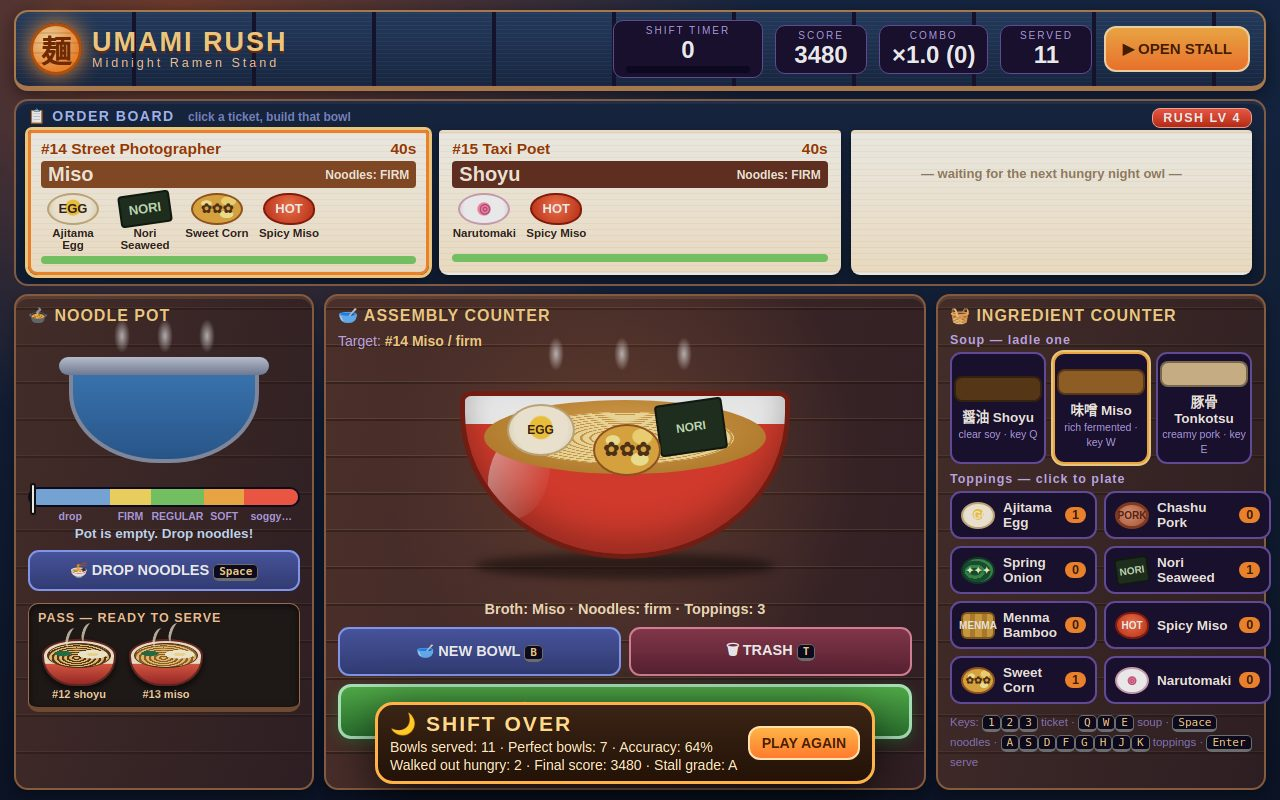
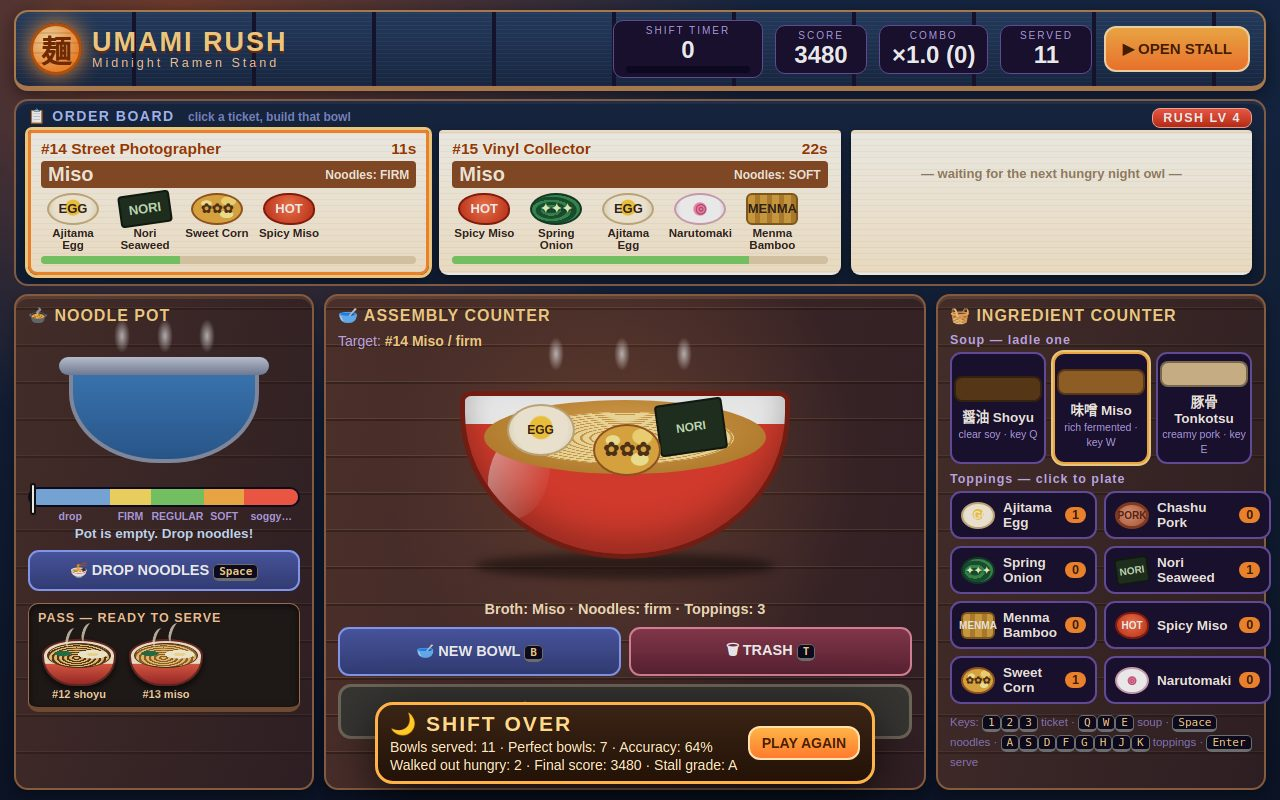
Astra round 3: close undercooked-noodle scoring exploit, post-shift serve guard, fixture realism (end tickets 11s/22s); restore urgent ticket on cover

Changed region(s): [[0.125, 0.1562, 0.6562, 0.3438], [0.25, 0.8438, 0.7188, 0.9375]]

diff --git a/game/src/shots.js b/game/src/shots.js
@@ -30,10 +30,9 @@ export function buildShotScene(name, seed) {
     ];
     addOrder(state);
     state.orders.forEach((order, index) => { order.number = 5 + index; });
-    Object.assign(target, { broth: 'shoyu', doneness: 'firm', toppings: ['chashu', 'ajitama', 'negi', 'nori'] });
-    target.patienceLeft = 24;
-    state.orders[1].patienceLeft = 8;
-    plateTicket(state, target, 3);
+    Object.assign(target, { broth: 'shoyu', doneness: 'firm', toppings: ['chashu', 'ajitama', 'nori'], patience: 36, patienceLeft: 31 });
+    Object.assign(state.orders[1], { toppings: ['negi', 'ajitama', 'menma'], patience: 36, patienceLeft: 8 });
+    plateTicket(state, target, 2);
     state.kitchen.potProgress = 0.375;
     state.feedback = 'One topping to go — then ring the bell!';
     state.feedbackKind = 'good';
@@ -46,9 +45,11 @@ export function buildShotScene(name, seed) {
     state.orders.forEach((order, index) => { order.number = 8 + index; });
     Object.assign(target, {
       broth: 'tonkotsu',
-      toppings: ['chashu', 'ajitama', 'corn', 'nori', 'negi'],
+      toppings: ['chashu', 'ajitama', 'nori'],
+      patience: 34,
       patienceLeft: 28,
     });
+    Object.assign(state.orders[1], { toppings: ['corn', 'negi', 'karamiso'], patience: 34, patienceLeft: 31 });
     plateTicket(state, target);
     state.feedback = 'Bowl complete — hit SERVE while it steams!';
     state.feedbackKind = 'good';
@@ -58,14 +59,15 @@ export function buildShotScene(name, seed) {
     // The payoff moment: the last bowl was PERFECT, the combo is hot, and the
     // next bowl is already boiling toward its SOFT window.
     state.timeLeft = 64; state.elapsed = 26;
-    state.score = 1875; state.combo = 5; state.servedCount = 5; state.perfectCount = 4;
+    state.score = 2360; state.combo = 5; state.servedCount = 5; state.perfectCount = 5;
     state.kitchen.pass = [{ label: '#5 tonkotsu', broth: 'tonkotsu' }];
     state.orders.forEach((order, index) => { order.number = 6 + index; });
-    Object.assign(target, { broth: 'miso', doneness: 'soft', toppings: ['narutomaki', 'karamiso', 'corn'] });
-    plateTicket(state, target, 2);
+    Object.assign(target, { broth: 'miso', doneness: 'soft', toppings: ['narutomaki', 'corn'], patience: 37, patienceLeft: 34 });
+    Object.assign(state.orders[1], { patience: 37, patienceLeft: 36 });
+    plateTicket(state, target);
     state.kitchen.bowl.noodleDoneness = null;
     state.kitchen.potProgress = 0.73;
-    state.feedback = 'PERFECT BOWL! +412 — combo ×1.75! Next bowl: pull SOFT now!';
+    state.feedback = 'PERFECT BOWL! +592 — combo ×1.75! Next bowl: pull SOFT now!';
     state.feedbackKind = 'good';
   }
 
@@ -74,8 +76,10 @@ export function buildShotScene(name, seed) {
     state.score = 3480; state.servedCount = 11; state.perfectCount = 7;
     state.walkedOut = 2;
     state.kitchen.pass = [{ label: '#12 shoyu', broth: 'shoyu' }, { label: '#13 miso', broth: 'miso' }];
+    state.orders.pop();
+    addOrder(state).patienceLeft = 22;
     state.orders.forEach((order, index) => { order.number = 14 + index; });
-    Object.assign(target, { broth: 'miso', toppings: ['ajitama', 'nori', 'corn', 'karamiso'] });
+    Object.assign(target, { broth: 'miso', toppings: ['ajitama', 'nori', 'corn', 'karamiso'], patience: 30, patienceLeft: 11 });
     plateTicket(state, target, 3);
     state.feedback = 'Last train gone. The night owls are fed.';
   }

diff --git a/game/src/render.js b/game/src/render.js
@@ -67,7 +67,7 @@ export function renderGame(state) {
   const target = selectedOrder(state);
   el('target-name').textContent = target ? `#${target.number} ${brothById(target.broth).name} / ${target.doneness}` : '—';
   const bowl = state.kitchen.bowl;
-  el('serve-btn').classList.toggle('unready', !target || !bowl?.broth || !bowl.noodleDoneness);
+  el('serve-btn').classList.toggle('unready', state.over || !target || !bowl?.broth || !bowl.noodleDoneness || bowl.noodleDoneness === 'undercooked');
   const brothLayer = el('broth');
   brothLayer.className = bowl?.broth ? bowl.broth : '';
   el('bowl-steam').className = bowl?.broth ? 'on' : '';
@@ -100,12 +100,12 @@ export function renderGame(state) {
     el('noodle-btn').innerHTML = '🍜 DROP NOODLES <kbd>Space</kbd>';
   } else {
     marker.style.left = `calc(${Math.min(100, pot.potProgress * 100)}% - 3px)`;
-    const pct = Math.round(pot.potProgress * 100);
+    const pct = Math.floor(pot.potProgress * 100);
     el('boil-status').textContent = pot.potProgress < 0.3 ? `Boiling… ${pct}% — too firm still`
       : pot.potProgress < 0.45 ? `Boiling… ${pct}% — FIRM zone!`
       : pot.potProgress < 0.65 ? `Boiling… ${pct}% — REGULAR zone!`
       : pot.potProgress < 0.8 ? `Boiling… ${pct}% — SOFT zone!`
-      : `Boiling… ${pct}% — SOGGY! Pull now or trash it`;
+      : `Boiling… ${pct}% — SOGGY! Pull to clear the pot`;
     el('noodle-btn').innerHTML = '🥢 PULL NOODLES <kbd>Space</kbd>';
   }
 

diff --git a/game/src/game.js b/game/src/game.js
@@ -82,6 +82,7 @@ export function tickShift(state, dt, hooks) {
     state.combo = 0;
   }
   if (state.spawnTimer <= 0 && state.orders.length < 3) {
+    if (state.orders.length === 0 && walked.length === 0) state.feedback = '';
     addOrder(state);
     state.spawnTimer = spawnIntervalSeconds(elapsedRatio(state));
     hooks.onNewOrder?.();
@@ -102,10 +103,16 @@ export function tickShift(state, dt, hooks) {
 
 /** Serve the current bowl to the selected ticket. Returns the scoring result or null. */
 export function serveCurrentBowl(state) {
+  if (!state.running || state.over) return null;
   const order = selectedOrder(state);
   if (!order || !state.kitchen.bowl) return null;
   if (!state.kitchen.bowl.broth || !state.kitchen.bowl.noodleDoneness) {
     state.feedback = 'That bowl is not food yet — it needs broth and noodles before it can be served.';
+    state.feedbackKind = 'bad';
+    return null;
+  }
+  if (state.kitchen.bowl.noodleDoneness === 'undercooked') {
+    state.feedback = 'Cook a fresh batch of noodles before serving.';
     state.feedbackKind = 'bad';
     return null;
   }

diff --git a/game/src/input.js b/game/src/input.js
@@ -20,6 +20,11 @@ export function bindKeyboard(handlers) {
   window.addEventListener('keydown', (event) => {
     if (event.repeat) return;
     const key = event.key.toLowerCase();
+    if (!document.getElementById('overlay').classList.contains('hidden')) {
+      if ((key === ' ' || key === 'enter') && event.target.id !== 'overlay-btn') event.preventDefault();
+      return;
+    }
+    if ((key === ' ' || key === 'enter') && event.target.closest?.('button')) return;
     if (key === ' ') { event.preventDefault(); handlers.onNoodleAction(); return; }
     if (key === 'enter') { event.preventDefault(); handlers.onServe(); return; }
     if (key === 'b') { handlers.onNewBowl(); return; }

diff --git a/game/src/main.js b/game/src/main.js
@@ -48,7 +48,6 @@ const handlers = {
     renderGame(state);
   },
   onServe() {
-    if (!state.running) { renderGame(state); return; }
     const result = serveCurrentBowl(state);
     if (result) { sfx.serveBell(); if (result.perfect) setTimeout(() => sfx.perfect(), 150); }
     renderGame(state);
